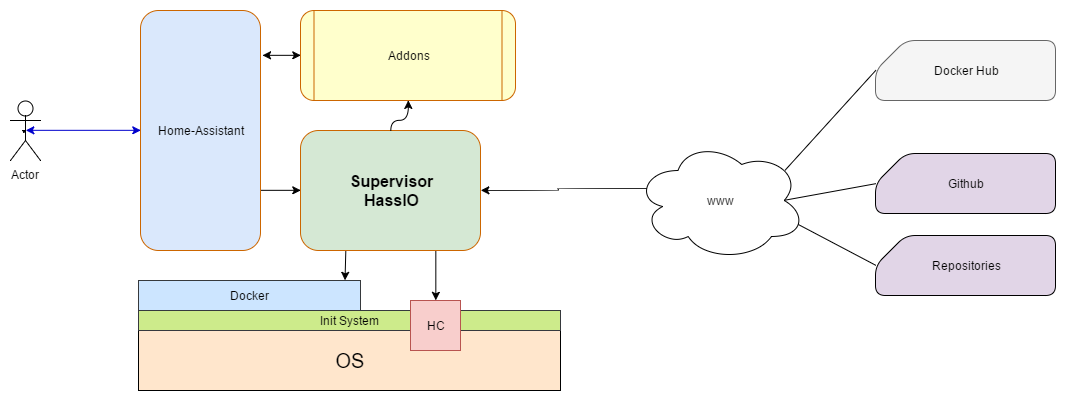
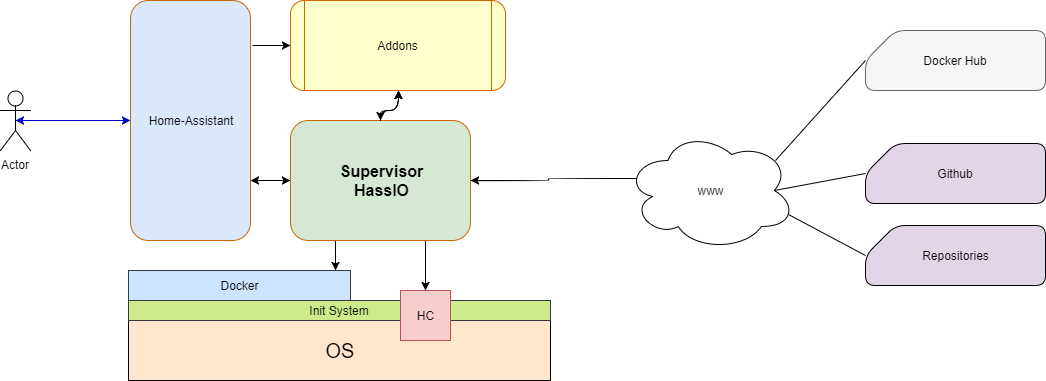
Remove old security layer (#306)
* Remove old security layer

* remove unneded libs

* Update diagram

diff --git a/hassio/config.py b/hassio/config.py
@@ -5,8 +5,7 @@ import os
 from pathlib import Path, PurePath
 
 from .const import (
-    FILE_HASSIO_CONFIG, HASSIO_DATA, ATTR_SECURITY, ATTR_SESSIONS,
-    ATTR_PASSWORD, ATTR_TOTP, ATTR_TIMEZONE, ATTR_ADDONS_CUSTOM_LIST,
+    FILE_HASSIO_CONFIG, HASSIO_DATA, ATTR_TIMEZONE, ATTR_ADDONS_CUSTOM_LIST,
     ATTR_AUDIO_INPUT, ATTR_AUDIO_OUTPUT, ATTR_LAST_BOOT, ATTR_WAIT_BOOT)
 from .utils.dt import parse_datetime
 from .utils.json import JsonConfig
@@ -179,59 +178,6 @@ class CoreConfig(JsonConfig):
             return
 
         self._data[ATTR_ADDONS_CUSTOM_LIST].remove(repo)
-        self.save()
-
-    @property
-    def security_initialize(self):
-        """Return is security was initialize."""
-        return self._data[ATTR_SECURITY]
-
-    @security_initialize.setter
-    def security_initialize(self, value):
-        """Set is security initialize."""
-        self._data[ATTR_SECURITY] = value
-        self.save()
-
-    @property
-    def security_totp(self):
-        """Return the TOTP key."""
-        return self._data.get(ATTR_TOTP)
-
-    @security_totp.setter
-    def security_totp(self, value):
-        """Set the TOTP key."""
-        self._data[ATTR_TOTP] = value
-        self.save()
-
-    @property
-    def security_password(self):
-        """Return the password key."""
-        return self._data.get(ATTR_PASSWORD)
-
-    @security_password.setter
-    def security_password(self, value):
-        """Set the password key."""
-        self._data[ATTR_PASSWORD] = value
-        self.save()
-
-    @property
-    def security_sessions(self):
-        """Return api sessions."""
-        return {
-            session: parse_datetime(until) for
-            session, until in self._data[ATTR_SESSIONS].items()
-        }
-
-    def add_security_session(self, session, valid):
-        """Set the a new session."""
-        self._data[ATTR_SESSIONS].update(
-            {session: valid.isoformat()}
-        )
-        self.save()
-
-    def drop_security_session(self, session):
-        """Delete the a session."""
-        self._data[ATTR_SESSIONS].pop(session, None)
         self.save()
 
     @property

diff --git a/hassio/validate.py b/hassio/validate.py
@@ -5,11 +5,10 @@ import voluptuous as vol
 import pytz
 
 from .const import (
-    ATTR_IMAGE, ATTR_LAST_VERSION, ATTR_SESSIONS, ATTR_PASSWORD, ATTR_TOTP,
-    ATTR_SECURITY, ATTR_BETA_CHANNEL, ATTR_TIMEZONE, ATTR_ADDONS_CUSTOM_LIST,
-    ATTR_AUDIO_OUTPUT, ATTR_AUDIO_INPUT, ATTR_HOMEASSISTANT, ATTR_HASSIO,
-    ATTR_BOOT, ATTR_LAST_BOOT, ATTR_SSL, ATTR_PORT, ATTR_WATCHDOG,
-    ATTR_WAIT_BOOT, ATTR_UUID)
+    ATTR_IMAGE, ATTR_LAST_VERSION, ATTR_BETA_CHANNEL, ATTR_TIMEZONE,
+    ATTR_ADDONS_CUSTOM_LIST, ATTR_AUDIO_OUTPUT, ATTR_AUDIO_INPUT,
+    ATTR_PASSWORD, ATTR_HOMEASSISTANT, ATTR_HASSIO, ATTR_BOOT, ATTR_LAST_BOOT,
+    ATTR_SSL, ATTR_PORT, ATTR_WATCHDOG, ATTR_WAIT_BOOT, ATTR_UUID)
 
 
 NETWORK_PORT = vol.All(vol.Coerce(int), vol.Range(min=1, max=65535))
@@ -87,11 +86,6 @@ SCHEMA_HASSIO_CONFIG = vol.Schema({
     vol.Optional(ATTR_ADDONS_CUSTOM_LIST, default=[
         "https://github.com/hassio-addons/repository",
     ]): [vol.Url()],
-    vol.Optional(ATTR_SECURITY, default=False): vol.Boolean(),
-    vol.Optional(ATTR_TOTP): vol.Coerce(str),
-    vol.Optional(ATTR_PASSWORD): vol.Coerce(str),
-    vol.Optional(ATTR_SESSIONS, default={}):
-        vol.Schema({vol.Coerce(str): vol.Coerce(str)}),
     vol.Optional(ATTR_AUDIO_OUTPUT): ALSA_CHANNEL,
     vol.Optional(ATTR_AUDIO_INPUT): ALSA_CHANNEL,
     vol.Optional(ATTR_WAIT_BOOT, default=5): WAIT_BOOT,

diff --git a/hassio/api/__init__.py b/hassio/api/__init__.py
@@ -10,7 +10,6 @@ from .host import APIHost
 from .network import APINetwork
 from .proxy import APIProxy
 from .supervisor import APISupervisor
-from .security import APISecurity
 from .snapshots import APISnapshots
 from ..coresys import CoreSysAttributes
 
@@ -38,7 +37,6 @@ class RestAPI(CoreSysAttributes):
         self._register_panel()
         self._register_addons()
         self._register_snapshots()
-        self._register_security()
         self._register_network()
 
     def _register_host(self):
@@ -137,16 +135,6 @@ class RestAPI(CoreSysAttributes):
             '/addons/{addon}/changelog', api_addons.changelog)
         self.webapp.router.add_post('/addons/{addon}/stdin', api_addons.stdin)
         self.webapp.router.add_get('/addons/{addon}/stats', api_addons.stats)
-
-    def _register_security(self):
-        """Register security function."""
-        api_security = APISecurity()
-        api_security.coresys = self.coresys
-
-        self.webapp.router.add_get('/security/info', api_security.info)
-        self.webapp.router.add_post('/security/options', api_security.options)
-        self.webapp.router.add_post('/security/totp', api_security.totp)
-        self.webapp.router.add_post('/security/session', api_security.session)
 
     def _register_snapshots(self):
         """Register snapshots function."""

diff --git a/hassio/tasks.py b/hassio/tasks.py
@@ -1,6 +1,5 @@
 """Multible tasks."""
 import asyncio
-from datetime import datetime
 import logging
 
 from .coresys import CoreSysAttributes
@@ -21,8 +20,6 @@ class Tasks(CoreSysAttributes):
 
     RUN_WATCHDOG_HOMEASSISTANT_DOCKER = 15
     RUN_WATCHDOG_HOMEASSISTANT_API = 300
-
-    RUN_CLEANUP_API_SESSIONS = 900
 
     def __init__(self, coresys):
         """Initialize Tasks."""
@@ -54,13 +51,6 @@ class Tasks(CoreSysAttributes):
             self.RUN_WATCHDOG_HOMEASSISTANT_API))
 
         _LOGGER.info("All core tasks are scheduled")
-
-    async def _cleanup_sessions(self):
-        """Cleanup old api sessions."""
-        now = datetime.now()
-        for session, until_valid in self._config.security_sessions.items():
-            if now >= until_valid:
-                self._config.drop_security_session(session)
 
     async def _update_addons(self):
         """Check if a update is available of a addon and update it."""

diff --git a/setup.py b/setup.py
@@ -46,8 +46,6 @@ setup(
         'colorlog',
         'voluptuous',
         'gitpython',
-        'pyotp',
-        'pyqrcode',
         'pytz',
         'pyudev'
     ]

diff --git a/API.md b/API.md
@@ -4,7 +4,7 @@
 
 Interface for Home Assistant to control things from supervisor.
 
-On error:
+On error / Code 400:
 
 ```json
 {
@@ -13,7 +13,7 @@ On error:
 }
 ```
 
-On success:
+On success / Code 200:
 
 ```json
 {
@@ -21,6 +21,8 @@ On success:
     "data": { }
 }
 ```
+
+For access to API you need set the `X-HASSIO-KEY` they will be available for Add-ons/HomeAssistant with envoriment `HASSIO_TOKEN`.
 
 ### Hass.io
 
@@ -99,44 +101,7 @@ Output is the raw docker log.
 }
 ```
 
-### Security
-
-- GET `/security/info`
-
-```json
-{
-    "initialize": "bool",
-    "totp": "bool"
-}
-```
-
-- POST `/security/options`
-
-```json
-{
-    "password": "xy"
-}
-```
-
-- POST `/security/totp`
-
-```json
-{
-    "password": "xy"
-}
-```
-
-Return QR-Code
-
-- POST `/security/session`
-```json
-{
-    "password": "xy",
-    "totp": "null|123456"
-}
-```
-
-### Backup/Snapshot
+### Snapshot
 
 - GET `/snapshots`
 
